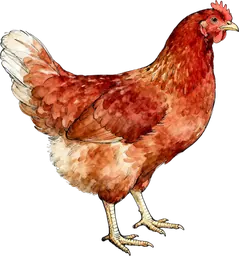
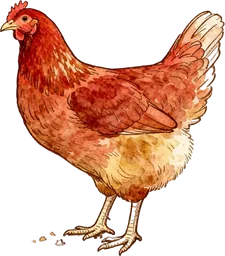
Plan de potager : jardin dessiné au style des illustrations de Claire (trait d'encre, aplats doux), 22 illustrations et 5 textures refaites, plantes à leur vraie taille, été rempli, rangs en quinconce

diff --git a/assets/potager/dessin.js b/assets/potager/dessin.js
@@ -18,17 +18,18 @@
     { id: "hiver", nom: "Hiver", mois: [12, 1, 2], sol: "0.75 0.18 0.07 0 0.05  0.14 0.78 0.08 0 0.05  0.14 0.18 0.68 0 0.06  0 0 0 1 0" }
   ];
   /* Largeur et hauteur des illustrations (pixels), pour garder leurs proportions. */
-  var DIMS = { ail: [159, 256], betterave: [238, 256], blette: [256, 255], carotte: [242, 256], chou: [256, 194], clapier: [250, 256], courge: [241, 256], courgette: [256, 220], couvert: [256, 248], feve: [179, 256], fraisier: [256, 226], haricot_vert: [142, 256], lapin: [245, 256], oignon: [217, 256], personne: [146, 256], poireau: [183, 256], pomme_de_terre: [256, 245], poulailler: [228, 256], poule: [239, 256], pousse: [255, 256], sec: [230, 256], tomate: [205, 256] };
+  var DIMS = { ail: [83, 256], betterave: [161, 256], blette: [222, 256], carotte: [166, 256], chou: [256, 213], clapier: [256, 246], courge: [247, 256], courgette: [256, 224], couvert: [256, 244], feve: [138, 256], fraisier: [256, 200], haricot_vert: [132, 256], lapin: [216, 256], oignon: [96, 256], personne: [83, 256], poireau: [195, 256], pomme_de_terre: [256, 233], poulailler: [193, 256], poule: [225, 256], pousse: [256, 251], sec: [237, 256], tomate: [184, 256] };
   /* Écart entre deux pieds (m) : sert à placer et à dimensionner chaque dessin. */
   var PAS = { tomate: 0.6, courge: 1.0, pomme_de_terre: 0.5, feve: 0.35, haricot_vert: 0.55, poireau: 0.3, chou: 0.55, ail: 0.25, oignon: 0.28,
     carotte: 0.3, betterave: 0.3, blette: 0.45, courgette: 0.9, fraisier: 0.4, couvert: 0.35, pousse: 0.3, sec: 0.35 };
   /* Largeur réelle d'un pied adulte vu de biais (m), plafond du dessin : une courge n'est pas plus large qu'une planche. */
   var LARG = { courge: 0.85, courgette: 0.8, pomme_de_terre: 0.55, tomate: 0.5, chou: 0.5, blette: 0.45, haricot_vert: 0.45, feve: 0.35, poireau: 0.28,
     ail: 0.22, oignon: 0.26, carotte: 0.28, betterave: 0.32, fraisier: 0.38, couvert: 0.32, pousse: 0.22, sec: 0.28 };
-  /* Les dessins de plantes ont une petite motte de terre : le pied est un peu au-dessus du bas de l'image. */
+  /* Les dessins de plantes n'ont que quelques miettes de terre : le pied est presque au bas de l'image. */
   var LIBELLES = { poule: "Poule", lapin: "Lapin", poulailler: "Poulailler", clapier: "Clapier", personne: "Jardinier, 1,75 m pour l'échelle" };
   var D = window.POTAGER_DONNEES;
   var PIED = { personne: 0.98, poule: 0.97, lapin: 0.96, poulailler: 0.97, clapier: 0.98 };
+  var ENCRE = "#4a3626";               // trait d'encre commun (style illustration éditoriale)
 
   /* ---------- Géométrie ---------- */
   function aire(pts) { var a = 0; for (var i = 0; i < pts.length; i++) { var j = (i + 1) % pts.length; a += pts[i][0] * pts[j][1] - pts[j][0] * pts[i][1]; } return a / 2; }
@@ -92,9 +93,10 @@
       var q = [iso(a[0], a[1], y0), iso(b[0], b[1], y0), iso(b[0], b[1], y1), iso(a[0], a[1], y1)];
       var d = "M" + q.map(function (p) { return f1(p[0]) + " " + f1(p[1]); }).join("L") + "Z";
       var leLongDeX = Math.abs(nz) >= Math.abs(nx);
-      s += (matiere === "terre" ? '<path d="' + d + '" fill="#6b4b33"/>' : "") + '<path d="' + d + '" fill="url(#' + matiere + (leLongDeX ? "-x" : "-z") + ')"' + (matiere === "terre" ? ' opacity=".45"' : "") + "/>" +
+      s += (matiere === "terre" ? '<path d="' + d + '" fill="#a07a56"/>' : "") + '<path d="' + d + '" fill="url(#' + matiere + (leLongDeX ? "-x" : "-z") + ')"' + (matiere === "terre" ? ' opacity=".6"' : "") + "/>" +
         
-        '<path d="' + d + '" fill="#1d120a" opacity="' + (leLongDeX ? ombre : ombre + 0.16) + '"/>';
+        '<path d="' + d + '" fill="#5a3e28" opacity="' + (leLongDeX ? ombre : ombre + 0.12) + '"/>' +
+        '<path d="' + d + '" fill="none" stroke="' + ENCRE + '" stroke-width="1" stroke-linejoin="round" opacity=".7"/>';
     }
     return s;
   }
@@ -142,7 +144,7 @@
     /* Une illustration debout, pied en (x, z) à la hauteur y, large de `larg` mètres. */
     /* nomLu : ce qui s'affiche au survol (ou au toucher sur téléphone). */
     function dessin(nom, x, z, y, larg, miroir, nomLu) {
-      var dm = DIMS[nom], q = iso(x, z, y), w = larg * K, h = w * dm[1] / dm[0], pied = PIED[nom] || 0.9;
+      var dm = DIMS[nom], q = iso(x, z, y), w = larg * K, h = w * dm[1] / dm[0], pied = PIED[nom] || 0.96;
       var X = q[0] - w / 2, Y = q[1] - h * pied, lu = P.esc(nomLu || LIBELLES[nom] || nom);
       return { prof: x + z, s: '<image href="' + img(nom) + '" x="' + f1(X) + '" y="' + f1(Y) + '" width="' + f1(w) + '" height="' + f1(h) + '" data-nom="' + lu + '"' +
         (miroir ? ' transform="matrix(-1 0 0 1 ' + f1(2 * q[0]) + ' 0)"' : "") + "><title>" + lu + "</title></image>" };
@@ -151,7 +153,8 @@
       var a = Math.abs(aire(bed)); pas = Math.max(pas, Math.sqrt(a / max));
       var xs = bed.map(function (p) { return p[0]; }), zs = bed.map(function (p) { return p[1]; }), out = [], ligne = 0;
       for (var z = Math.min.apply(null, zs) + pas / 2; z < Math.max.apply(null, zs); z += pas, ligne++)
-        for (var x = Math.min.apply(null, xs) + pas / 2; x < Math.max.apply(null, xs); x += pas)
+        /* Quinconce : un rang sur deux décalé d'un demi-pas, les rangs restent droits mais deux pieds ne se cachent plus l'un l'autre. */
+        for (var x = Math.min.apply(null, xs) + pas / 2 + (ligne % 2 ? pas / 2 : 0); x < Math.max.apply(null, xs); x += pas)
           if (dedans([x, z], bed)) out.push([x, z, ligne]);
       return { pos: out, pas: pas };
     }
@@ -159,17 +162,17 @@
     function dessiner(sid) {
       var S = SAISONS.filter(function (s) { return s.id === sid; })[0];
       var fond = "", objets = [];
-      fond += '<ellipse cx="' + ((minX + maxX) / 2).toFixed(0) + '" cy="' + (maxY - 30).toFixed(0) + '" rx="' + ((maxX - minX) * 0.42).toFixed(0) + '" ry="24" fill="#2a1d10" opacity=".18" filter="url(#d-flou)"/>';
+      fond += '<ellipse cx="' + ((minX + maxX) / 2).toFixed(0) + '" cy="' + (maxY - 30).toFixed(0) + '" rx="' + ((maxX - minX) * 0.42).toFixed(0) + '" ry="24" fill="#5a3e28" opacity=".14" filter="url(#d-flou)"/>';
       /* Socle en coupe, herbe autour, allées en gravier. */
       fond += cotes(bord, -epais, 0, "terre", 0.28);
-      var herbe = function (d) { return '<path d="' + d + '" fill="#b7c493"/><path d="' + d + '" fill="url(#t-herbe)" opacity=".28"/><path d="' + d + '" fill="url(#t-herbe2)" opacity=".18"/>'; };
-      var sol = herbe(chemin(bord, 0)) + '<path d="' + chemin(pts, 0) + '" fill="#efe6d2"/><path d="' + chemin(pts, 0) + '" fill="url(#t-gravier)" opacity=".35"/>';
+      var herbe = function (d) { return '<path d="' + d + '" fill="#c4cb9c"/><path d="' + d + '" fill="url(#t-herbe)" opacity=".9"/><path d="' + d + '" fill="url(#t-herbe2)" opacity=".25"/><path d="' + d + '" fill="none" stroke="' + ENCRE + '" stroke-width="1.2" stroke-linejoin="round" opacity=".55"/>'; };
+      var sol = herbe(chemin(bord, 0)) + '<path d="' + chemin(pts, 0) + '" fill="#ece2cc"/><path d="' + chemin(pts, 0) + '" fill="url(#t-gravier)" opacity=".9"/>';
 
       lits.forEach(function (L) {
         var x = L.x, bed = L.bed, c = L.c;
         if (x.id === "reste") { sol += herbe(chemin(bed, 0)); return; }
         if (x.id === "poules") {
-          sol += '<path d="' + chemin(bed, 0) + '" fill="#e7d3a1"/><path d="' + chemin(bed, 0) + '" fill="url(#t-paille)" opacity=".35"/>';
+          sol += '<path d="' + chemin(bed, 0) + '" fill="#e8d098"/><path d="' + chemin(bed, 0) + '" fill="url(#t-paille)" opacity=".9" stroke="' + ENCRE + '" stroke-width="1" stroke-linejoin="round" stroke-opacity=".6"/>';
           objets.push(dessin("poulailler", c[0] - 0.3, c[1] - 0.3, 0, 1.5));
           for (var k = 0; k < (plan.poules || 0); k++) {
             var ang = k * 2.4 + 0.6, r = 1.0 + (k % 3) * 0.35, pt = [c[0] + Math.cos(ang) * r, c[1] + Math.sin(ang) * r];
@@ -179,7 +182,7 @@
           return;
         }
         if (x.id === "lapins") {
-          sol += '<path d="' + chemin(bed, 0) + '" fill="#e7d3a1"/><path d="' + chemin(bed, 0) + '" fill="url(#t-paille)" opacity=".35"/>';
+          sol += '<path d="' + chemin(bed, 0) + '" fill="#e8d098"/><path d="' + chemin(bed, 0) + '" fill="url(#t-paille)" opacity=".9" stroke="' + ENCRE + '" stroke-width="1" stroke-linejoin="round" stroke-opacity=".6"/>';
           var n2 = (plan.lapines || 1) + 1;
           for (var j = 0; j < n2; j++) {
             var t = j - (n2 - 1) / 2;
@@ -190,8 +193,8 @@
         }
         /* Planche surélevée : côtés en bois, dessus en terre (ou engrais vert l'hiver). */
         objets.push({ prof: -1e6 + c[0] + c[1], s: cotes(bed, 0, hautPlanche, "bois", 0.05) +
-          '<path d="' + chemin(bed, hautPlanche) + '" fill="#7a5638"/>' + '<path d="' + chemin(bed, hautPlanche) + '" fill="url(#t-terre)" opacity=".55"/>' +
-          '<path d="' + chemin(bed, hautPlanche) + '" fill="transparent" stroke="#e2c08e" stroke-width="2" data-nom="Planche : ' + P.esc(x.nom.toLowerCase()) + '"><title>' + P.esc(x.nom) + "</title></path>" });
+          '<path d="' + chemin(bed, hautPlanche) + '" fill="#a67c58"/>' + '<path d="' + chemin(bed, hautPlanche) + '" fill="url(#t-terre)" opacity=".95"/>' +
+          '<path d="' + chemin(bed, hautPlanche) + '" fill="transparent" stroke="' + ENCRE + '" stroke-width="1.3" stroke-linejoin="round" data-nom="Planche : ' + P.esc(x.nom.toLowerCase()) + '"><title>' + P.esc(x.nom) + "</title></path>" });
         plantes(L, S).forEach(function (o2) { objets.push(o2); });
       });
       /* Le jardinier, au coin le plus proche, pour l'échelle. */
@@ -217,10 +220,11 @@
         return out;
       } else if (r && bOn && !aOn) { id = r.idB; etat = "recolte"; }
       function vu(id, etat) {
-        var nom = etat === "recolte" ? (DIMS[id] ? id : "pousse") : etat;
+        var nom = etat === "recolte" ? (DIMS[id] ? id : "pousse") : etat, taille = 1;
+        if (etat === "pousse" && S.id === "ete" && DIMS[id]) { nom = id; taille = 0.75; }
         var c0 = D.CULTURES.filter(function (c) { return c.id === id; })[0], nc = c0 ? c0.nom.replace(/ \(.*\)/, "") : "";
         var lu = id === "couvert" ? "Engrais vert d'hiver (seigle, vesce, féveroles)" : etat === "recolte" ? nc + ", en récolte" : etat === "pousse" ? nc + ", en train de pousser" : nc + ", récolte finie";
-        return { nom: nom, lu: lu, etat: etat };
+        return { nom: nom, lu: lu, etat: etat, taille: taille };
       }
       var A = vu(id, etat), B = null, as = x.assoc;
       /* Association : le compagnon occupe un rang sur deux (rangs alternés) ou un sur trois (entre les pieds). */
@@ -233,7 +237,7 @@
       g.pos.forEach(function (p, k) {
         var V = B && p[2] % pas === 1 ? B : A;
         if (V.etat === "sec" && k % 2) return;
-        var v = 0.92 + ((k * 37) % 10) / 60, larg = Math.min(g.pas * 0.8, (LARG[V.nom] || 0.35) * 0.72) * v;
+        var v = 0.92 + ((k * 37) % 10) / 60, larg = Math.min(g.pas * 0.95, LARG[V.nom] || 0.35) * v * V.taille;
         out.push(dessin(V.nom, p[0], p[1], hautPlanche, larg, (k * 7) % 3 === 0, V.lu));
       });
       return out;
